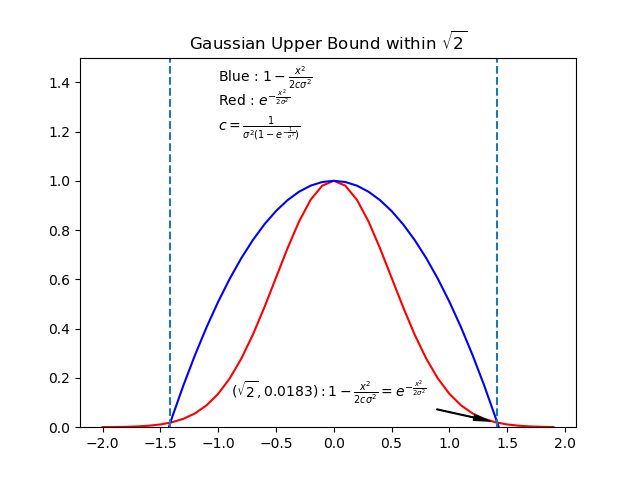
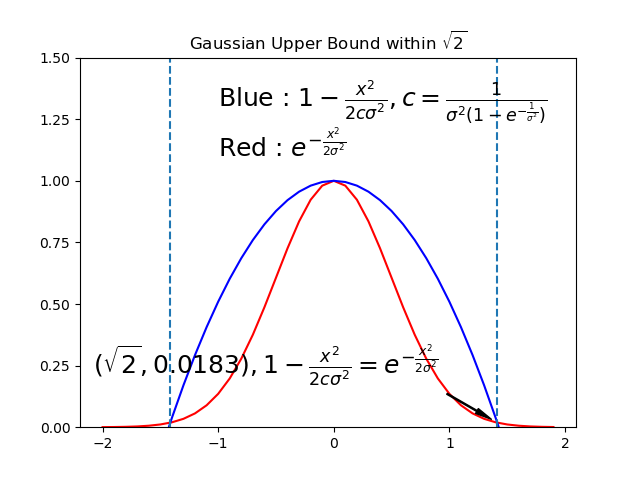
added sparse pca

diff --git a/sparse_eigen_decomposition/sparse_pca.py b/sparse_eigen_decomposition/sparse_pca.py
@@ -1,0 +1,99 @@
+#!/usr/bin/env python
+
+import sys
+import numpy as np
+import sklearn.metrics
+import torch
+import numpy.matlib
+from torch.autograd import Variable
+from numpy.random import rand
+import torch.nn.functional as F
+
+np.set_printoptions(precision=3)
+np.set_printoptions(threshold=30)
+np.set_printoptions(linewidth=300)
+np.set_printoptions(suppress=True)
+np.set_printoptions(threshold=sys.maxsize)
+
+
+class sparse_pca:
+	def __init__(self):
+		pass
+
+
+	def subsample_matrix(self, A, num_of_eigs, eigs_1): #A is square, n is the number we keep
+		N = A.shape[0]
+		inc = 1
+
+		for ń in np.arange(num_of_eigs, A.shape[0]+1, inc):
+			keep_index = np.random.permutation(N)[0:ń]
+			B = A[keep_index, :]
+			Aᵴ = B[:, keep_index]
+		
+			[ksf_2, eigs_2, num_of_eigs, v2] = self.get_kernel_sampling_feature(Aᵴ, num_of_eigs)
+			
+			if len(eigs_1) > len(eigs_2):	
+				extra_pad = len(eigs_1) - len(eigs_2)
+				eigs_2 = np.pad(eigs_2, (0,extra_pad), 'constant')
+				
+			Kᵭ = np.linalg.norm(eigs_1 - eigs_2, ord=np.inf)
+
+			if Kᵭ < 0.05: 
+				return [Aᵴ, v2]
+
+
+
+
+	def double_center(self, Ψ):
+		HΨ = Ψ - np.mean(Ψ, axis=0)								# equivalent to Γ = Ⲏ.dot(Kᵧ).dot(Ⲏ)
+		HΨH = (HΨ.T - np.mean(HΨ.T, axis=0)).T
+		return HΨH
+
+
+	def get_kernel_sampling_feature(self, rbk, num_of_eigs=None):
+		[U,S,V] = np.linalg.svd(rbk)
+		v = V[0,:]	# most dominant eig
+
+		cs = np.cumsum(S)/np.sum(S)
+		L1_norm = S/np.sum(S)
+
+		if num_of_eigs is None: num_of_eigs = np.sum(cs < 0.9) + 1
+		keepCS = cs[0:num_of_eigs]
+		L1_norm = L1_norm[0:num_of_eigs]
+
+		return [keepCS, L1_norm, num_of_eigs, v]
+
+	def merge_eig_vectors(self, v1, v2):
+		n = len(v2)
+		sortArgs = np.flip(np.argsort(np.absolute(v1)))
+		override = sortArgs[0:n]
+		toZero = sortArgs[n:len(v1)]
+		print(sortArgs)
+		print(override)
+		print(toZero)
+		print(v1)
+		v1[toZero] = 0
+		print(v1)
+		import pdb; pdb.set_trace()
+
+	def get_sparce_eig_vector(self, A):
+		inc = 3
+		[keepCS, eigs_1, num_of_eigs, v1] = self.get_kernel_sampling_feature(A)
+		[Aᵴ, v2] = self.subsample_matrix(A, num_of_eigs, eigs_1)
+		vi = self.merge_eig_vectors(v1,v2)
+
+		import pdb; pdb.set_trace()
+
+
+A =  np.array([[ 5.95 ,  2.558, -0.045,  5.369,  0.571,  4.871, -1.672,  0.784, -1.175, -2.351],
+				[ 2.558,  9.927, -1.97 ,  1.867,  8.123,  1.998, -3.867, -5.423, -4.889, -3.455],
+				[-0.045, -1.97 , 11.314,  3.922, -3.707,  2.685,  5.36 , -4.995, -0.136,  1.396],
+				[ 5.369,  1.867,  3.922,  8.214,  0.626,  3.814, -0.26 , -2.162,  1.232, -1.246],
+				[ 0.571,  8.123, -3.707,  0.626, 12.372, -0.182, -2.772, -1.065, -2.313,  0.384],
+				[ 4.871,  1.998,  2.685,  3.814, -0.182,  6.045,  0.541,  0.586, -3.12 , -1.502],
+				[-1.672, -3.867,  5.36 , -0.26 , -2.772,  0.541,  4.191,  0.548,  0.72 ,  2.633],
+				[ 0.784, -5.423, -4.995, -2.162, -1.065,  0.586,  0.548, 10.719,  2.188,  2.767],
+				[-1.175, -4.889, -0.136,  1.232, -2.313, -3.12 ,  0.72 ,  2.188,  5.608,  2.17 ],
+				[-2.351, -3.455,  1.396, -1.246,  0.384, -1.502,  2.633,  2.767,  2.17 ,  3.465]])
+sp = sparse_pca()
+sp.get_sparce_eig_vector(A)

diff --git a/Gaussian_kernel_bounds/exp_upper_bound.py b/Gaussian_kernel_bounds/exp_upper_bound.py
@@ -34,13 +34,14 @@ plt.ylim(0, 1.5)
 plt.axvline(np.sqrt(2), linestyle='--')
 plt.axvline(-np.sqrt(2), linestyle='--')
 plt.title('Gaussian Upper Bound within $\sqrt{2}$')
-plt.text(-1.0,1.4,r'Blue : $1 - \frac{x^2}{2c\sigma^2}$')
-plt.text(-1.0,1.3,r'Red : $e^{-\frac{x^2}{2\sigma^2}}$')
-plt.text(-1.0,1.2,r'$c = \frac{1}{\sigma^2 (1 - e^{-\frac{1}{\sigma^2}})}$')
+plt.rcParams.update({'font.size': 18})
+plt.text(-1.0,1.3,r'Blue : $1 - \frac{x^2}{2c\sigma^2}, c = \frac{1}{\sigma^2 (1 - e^{-\frac{1}{\sigma^2}})}$')
+plt.text(-1.0,1.1,r'Red : $e^{-\frac{x^2}{2\sigma^2}}$')
+#plt.text(-1.0,0.9,r'$c = \frac{1}{\sigma^2 (1 - e^{-\frac{1}{\sigma^2}})}$')
 #plt.arrow(np.sqrt(2) - 1, 0.0183 + 0.2, 1, -0.2, length_includes_head=True, label='hello')
-arrow_properties = dict( facecolor="black", width=0.5, headwidth=4, shrink=0.1)
-msg = r'$(\sqrt{2}, 0.0183) : 1 - \frac{x^2}{2c\sigma^2} = e^{-\frac{x^2}{2\sigma^2}}$'
-plt.annotate(msg, xy=(np.sqrt(2), 0.0183), xytext=(np.sqrt(2)-2.3, 0.0183 + 0.1), arrowprops=arrow_properties)
+arrow_properties = dict( facecolor="black", width=0.8, headwidth=4, shrink=0.1)
+msg = r'$(\sqrt{2}, 0.0183) , 1 - \frac{x^2}{2c\sigma^2} = e^{-\frac{x^2}{2\sigma^2}}$'
+plt.annotate(msg, xy=(np.sqrt(2), 0.0183), xytext=(np.sqrt(2)-3.5, 0.0183 + 0.2), arrowprops=arrow_properties)
 
 plt.show()
 

diff --git a/Gaussian_kernel_bounds/exp_lower_bound.py b/Gaussian_kernel_bounds/exp_lower_bound.py
@@ -35,8 +35,9 @@ plt.ylim(0, 1.5)
 #plt.axvline(np.sqrt(2), linestyle='--')
 #plt.axvline(-np.sqrt(2), linestyle='--')
 plt.title('Gaussian Lower Bound via 1st order Taylor Expansion')
-plt.text(-2.0,1.4,r'RBF kernel (Red) : $e^{-\frac{x^2}{2\sigma^2}}$')
-plt.text(-2.0,1.3,r'RBF lower bound (Blue) : $1 - \frac{x^2}{2\sigma^2}$')
+plt.rcParams.update({'font.size': 18})
+plt.text(-2.0,1.3,r'RBF kernel (Red) : $e^{-\frac{x^2}{2\sigma^2}}$')
+plt.text(-2.0,1.1,r'RBF lower bound (Blue) : $1 - \frac{x^2}{2\sigma^2}$')
 #plt.text(-1.0,1.2,r'$c = \frac{1}{\sigma^2 (1 - e^{-\frac{1}{\sigma^2}})}$')
 #plt.arrow(np.sqrt(2) - 1, 0.0183 + 0.2, 1, -0.2, length_includes_head=True, label='hello')
 #arrow_properties = dict( facecolor="black", width=0.5, headwidth=4, shrink=0.1)
